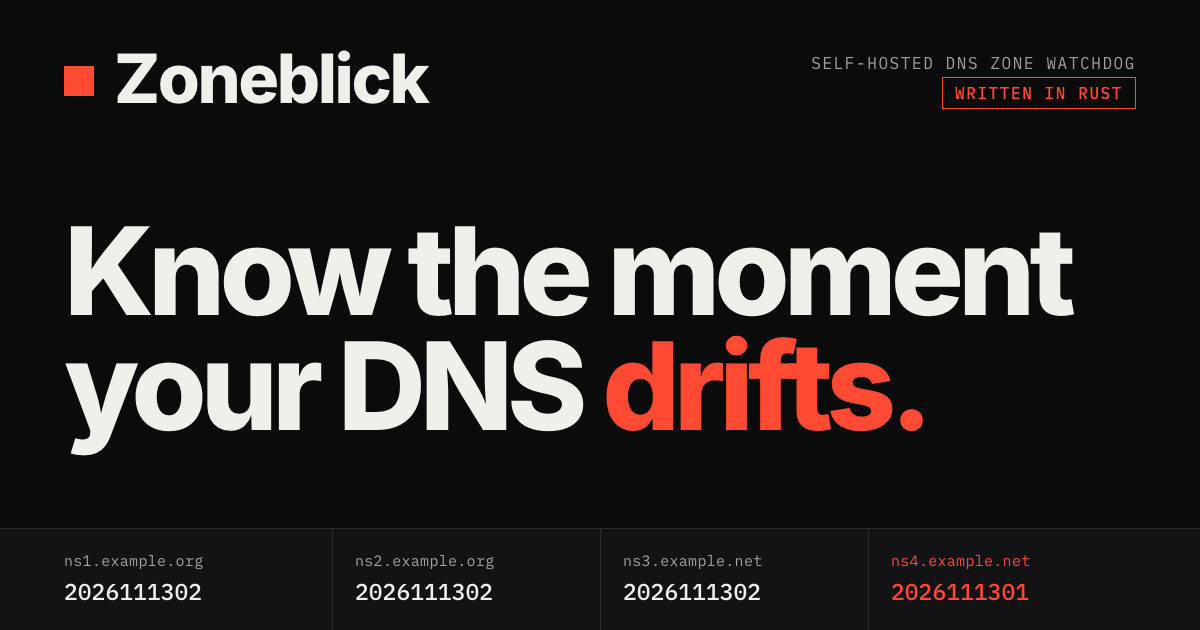
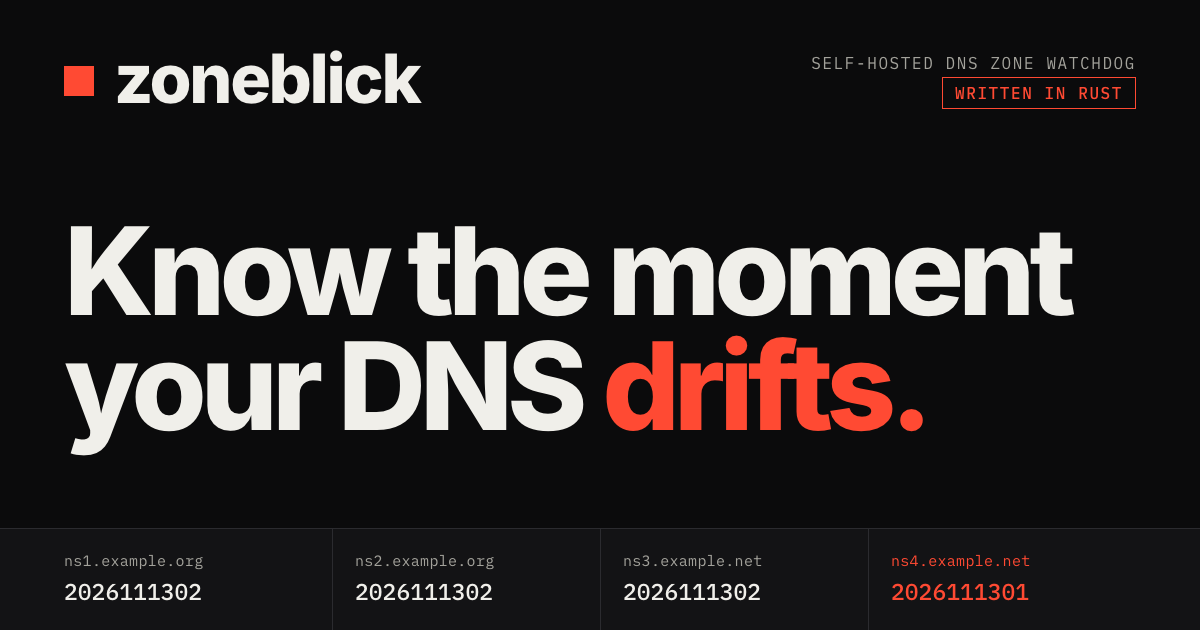
Use the lowercase name on the social card and in og tags

Changed region(s): [[0.0925, 0.0603, 0.37, 0.181]]

diff --git a/docs/index.html b/docs/index.html
@@ -8,12 +8,12 @@
 <meta property="og:type" content="website">
 <meta property="og:url" content="https://zoneblick.com/">
 <link rel="canonical" href="https://zoneblick.com/">
-<meta property="og:title" content="Zoneblick: a self-hosted DNS zone watchdog, written in Rust">
+<meta property="og:title" content="zoneblick: a self-hosted DNS zone watchdog, written in Rust">
 <meta property="og:description" content="A self-hosted DNS zone watchdog, written in Rust. It asks every authoritative nameserver directly, checks the answers, and tells you what changed.">
 <meta property="og:image" content="https://zoneblick.com/og-image.png">
 <meta property="og:image:width" content="1200">
 <meta property="og:image:height" content="630">
-<meta property="og:image:alt" content="Zoneblick. Know the moment your DNS drifts. A self-hosted DNS zone watchdog, written in Rust.">
+<meta property="og:image:alt" content="zoneblick. Know the moment your DNS drifts. A self-hosted DNS zone watchdog, written in Rust.">
 <meta name="twitter:card" content="summary_large_image">
 <link rel="preconnect" href="https://fonts.googleapis.com">
 <link rel="preconnect" href="https://fonts.gstatic.com" crossorigin>

diff --git a/docs/demo.html b/docs/demo.html
@@ -8,12 +8,12 @@
 <meta property="og:type" content="website">
 <meta property="og:url" content="https://zoneblick.com/demo.html">
 <link rel="canonical" href="https://zoneblick.com/demo.html">
-<meta property="og:title" content="Zoneblick demo">
+<meta property="og:title" content="zoneblick demo">
 <meta property="og:description" content="A demo of the zoneblick interface using sample data.">
 <meta property="og:image" content="https://zoneblick.com/og-image.png">
 <meta property="og:image:width" content="1200">
 <meta property="og:image:height" content="630">
-<meta property="og:image:alt" content="Zoneblick. Know the moment your DNS drifts. A self-hosted DNS zone watchdog, written in Rust.">
+<meta property="og:image:alt" content="zoneblick. Know the moment your DNS drifts. A self-hosted DNS zone watchdog, written in Rust.">
 <meta name="twitter:card" content="summary_large_image">
 <link rel="preconnect" href="https://fonts.googleapis.com">
 <link rel="preconnect" href="https://fonts.gstatic.com" crossorigin>
